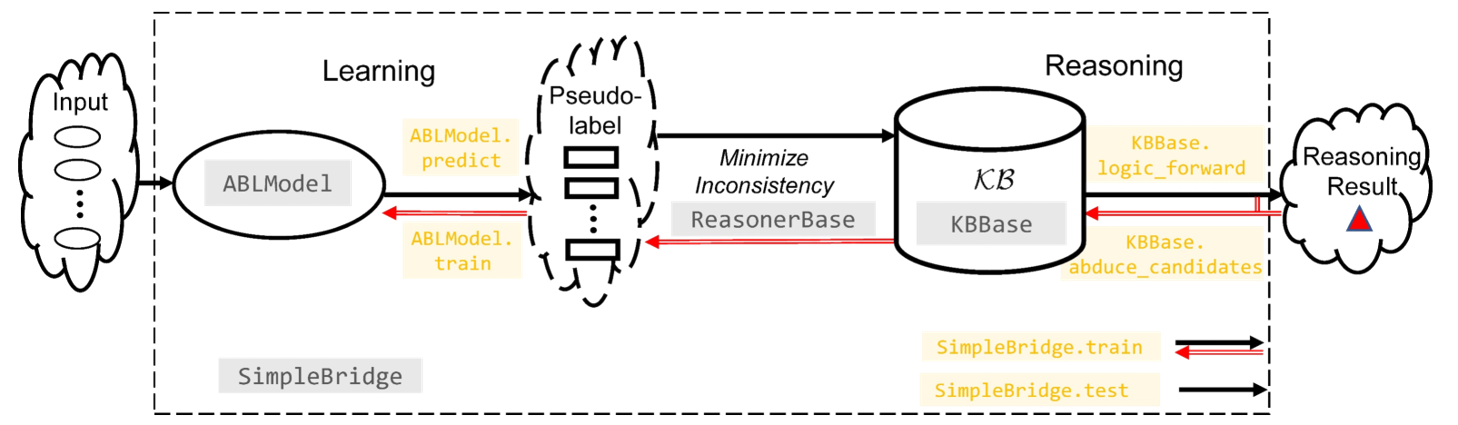
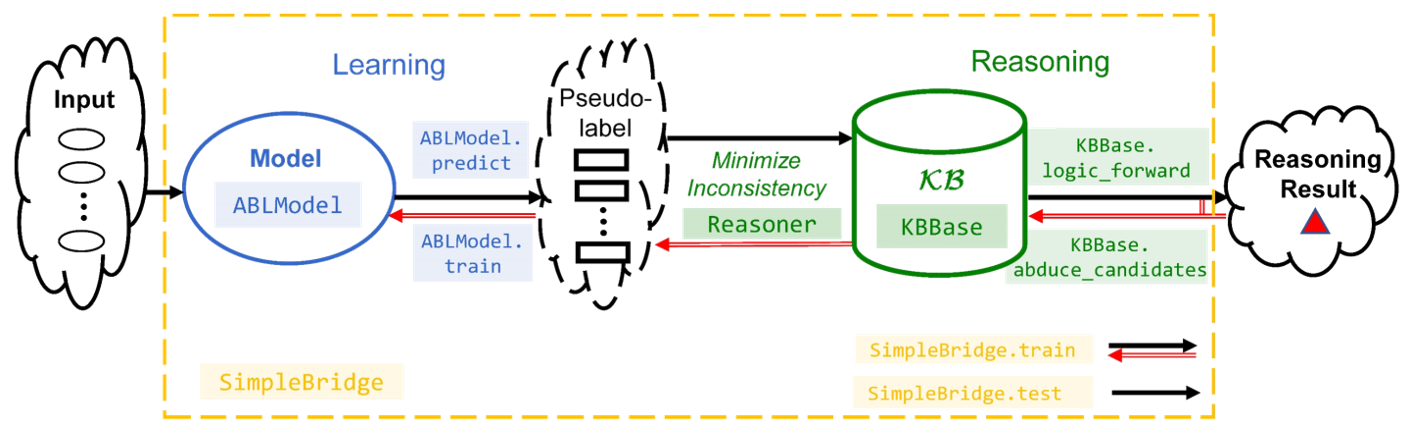
[DOC] add color in basics

Changed region(s): [[0.0, 0.0, 0.9986, 0.9788], [0.2184, 0.1224, 0.3121, 0.2141], [0.0936, 0.7953, 0.1248, 0.8565]]

diff --git a/docs/_static/custom.css b/docs/_static/custom.css
@@ -1,3 +1,24 @@
 div.code-out > div.highlight > pre {
     background-color: #d3effd !important; 
 }
+.green-bold {
+    color: green; 
+    font-weight: bold;
+}
+.blue-bold {
+    color: blue;
+    font-weight: bold;
+}
+.yellow-bold {
+    color: rgb(255, 192, 0);
+    font-weight: bold;
+}
+.green {
+    color: green;
+}
+.blue {
+    color: blue;
+}
+.yellow {
+    color: rgb(255, 192, 0);
+}

diff --git a/docs/conf.py b/docs/conf.py
@@ -1,6 +1,20 @@
 import os
 import re
 import sys
+from docutils import nodes
+from docutils.parsers.rst import roles
+
+def colored_text_role(role, rawtext, text, lineno, inliner, options={}, content=[]):
+    node = nodes.inline(rawtext, text, classes=[role])
+    return [node], []
+
+roles.register_local_role('green-bold', colored_text_role)
+roles.register_local_role('blue-bold', colored_text_role)
+roles.register_local_role('yellow-bold', colored_text_role)
+roles.register_local_role('green', colored_text_role)
+roles.register_local_role('blue', colored_text_role)
+roles.register_local_role('yellow', colored_text_role)
+
 
 
 if "READTHEDOCS" not in os.environ:

diff --git a/docs/Intro/Basics.rst b/docs/Intro/Basics.rst
@@ -28,13 +28,13 @@ such as ``SymbolAccuracy`` and ``ReasoningMetric`` (both specialized metrics
 inherited from the ``BaseMetric`` class), for evaluating model quality from a 
 data perspective.
 
-**Learning** part focuses on the construction, deployment, and
+:blue:`Learning` part focuses on the construction, deployment, and
 training of machine learning models. The ``ABLModel`` class is the 
 central class that encapsulates the machine learning model. This class is
 compatible with various frameworks, including those based on Scikit-learn
 or PyTorch neural networks constructed by the ``BasicNN`` class.
 
-**Reasoning** part concentrates on constructing domain knowledge and 
+:green:`Reasoning` part concentrates on constructing domain knowledge and 
 performing reasoning. The ``KBBase`` class allows users to define a 
 domain knowledge base. For diverse types of knowledge, we also offer
 implementations like ``GroundKB`` and ``PrologKB`` (both inherited 
@@ -45,7 +45,7 @@ responsible for minimizing the inconsistency between the knowledge base
 and data.
 
 The integration of these three parts are achieved through the
-**Bridge** part, which features the ``SimpleBridge`` class (derived 
+:yellow:`Bridge` part, which features the ``SimpleBridge`` class (derived 
 from the ``BaseBridge`` class). The Bridge part synthesizes data, 
 learning, and reasoning, facilitating the training and testing 
 of the entire ABL framework.
@@ -68,16 +68,16 @@ fed back for further training ``ABLModel.train``.
 
 To implement this process, the following five steps are necessary:
 
-1. Prepare datasets
+1. Prepare **datasets**
 
     Prepare the data's input, ground truth for pseudo-labels (optional), and ground truth for reasoning results.
 
-2. Build the learning part
+2.  :blue:`Build the` :blue-bold:`learning` :blue:`part`
 
     Build a machine learning base model that can predict inputs to pseudo-labels. 
     Then, use ``ABLModel`` to encapsulate the base model.
 
-3. Build the reasoning part
+3. :green:`Build the` :green-bold:`reasoning` :green:`part`
 
     Define a knowledge base by building a subclass of ``KBBase``, specifying how to 
     process pseudo-label examples to reasoning results.
@@ -89,7 +89,7 @@ To implement this process, the following five steps are necessary:
     Define the metrics by building a subclass of ``BaseMetric``. The metrics will 
     specify how to measure performance during the training and testing of the ABL framework.
 
-5. Bridge learning and reasoning
+5. :yellow-bold:`Bridge` :yellow:`learning and reasoning`
 
     Use ``SimpleBridge`` to bridge the learning and reasoning part
     for integrated training and testing. 

diff --git a/docs/References.rst b/docs/References.rst
@@ -1,7 +1,7 @@
 References
 ==========
 
-Zhi-Hua Zhou. Abductive learning: `Towards bridging machine learning and logical reasoning. <https://link.springer.com/epdf/10.1007/s11432-018-9801-4?author_access_token=jgJe1Ox3Mk-K7ORSnX7jtfe4RwlQNchNByi7wbcMAY7_PxTx-xNLP7Lp0mIZ04ORp3VG4wioIBHSCIAO3B_TBJkj87YzapmdnYVSQvgBIO3aEpQWppxZG25KolINetygc2W_Cj2gtoBdiG_J1hU3pA==>`_. **Science China Information Sciences**, 2019, 62: 076101.
+Zhi-Hua Zhou. `Abductive learning: Towards bridging machine learning and logical reasoning. <https://link.springer.com/epdf/10.1007/s11432-018-9801-4?author_access_token=jgJe1Ox3Mk-K7ORSnX7jtfe4RwlQNchNByi7wbcMAY7_PxTx-xNLP7Lp0mIZ04ORp3VG4wioIBHSCIAO3B_TBJkj87YzapmdnYVSQvgBIO3aEpQWppxZG25KolINetygc2W_Cj2gtoBdiG_J1hU3pA==>`_. **Science China Information Sciences**, 2019, 62: 076101.
 
 Zhi-Hua Zhou and Yu-Xuan Huang. `Abductive learning <https://www.lamda.nju.edu.cn/publication/chap_ABL.pdf>`_. In P. Hitzler and M. K. Sarker eds., **Neuro-Symbolic Artificial Intelligence: The State of the Art**, IOP Press, Amsterdam, 2022, p.353-379
 
